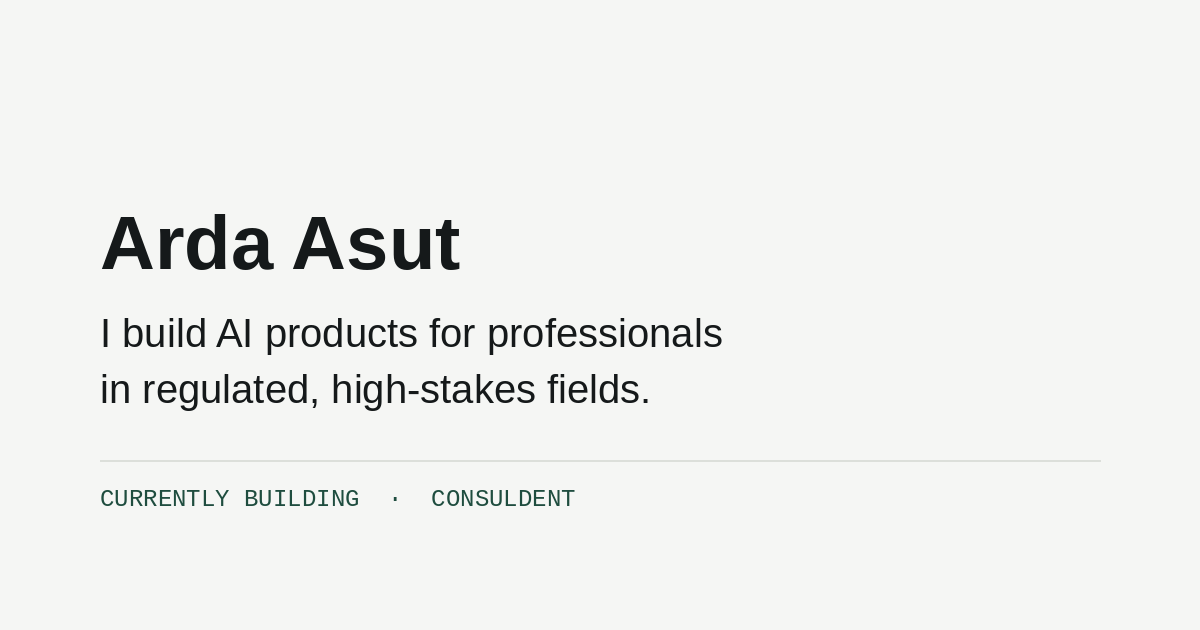
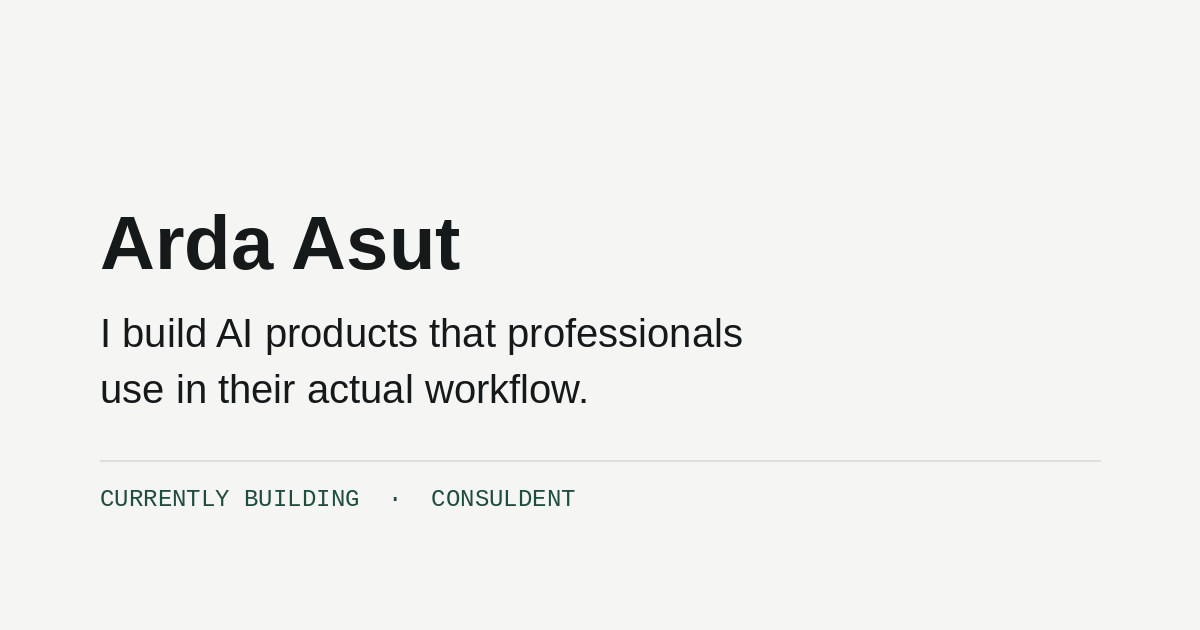
Update homepage copy: real metrics, day job detail, postmortems
- Hero repositioned: products professionals use in their actual
  workflow; context line now points at ConsulDent
- Metrics strip: 50 dentists reached, 3 test cohorts, payments active
- Day job section lists the actual internal software work (OLT/GPON
  automation, 5G sync interfaces, network data analysis, .NET fault
  tracking app)
- Honest postmortems for mulakat.pro and MentAI; homepage archived list
  now shows only products with a postmortem, practice repos stay on
  /projects/
- Title/meta/og.png aligned with the new positioning line

Claude-Session: https://claude.ai/code/session_01F8zVi9XpeL5RVGhwSNBAuU

Changed region(s): [[0.0925, 0.573, 0.555, 0.6635], [0.37, 0.5127, 0.6167, 0.573]]

diff --git a/main/templates/main/home.html b/main/templates/main/home.html
@@ -1,7 +1,7 @@
 {% extends 'main/base.html' %}
 {% load static %}
 
-{% block title %}Arda Asut — AI products for regulated work{% endblock %}
+{% block title %}Arda Asut — AI products for real workflows{% endblock %}
 {% block body_class %}page-home{% endblock %}
 
 {% block extra_css %}
@@ -13,8 +13,8 @@
 
 <header class="intro">
   <h1>Arda Asut</h1>
-  <p class="intro-line">I build AI products for professionals in regulated, high-stakes fields.</p>
-  <p class="intro-sub muted">Alongside a full-time job as a network engineer at Türk Telekom.</p>
+  <p class="intro-line">I build AI products that professionals use in their actual workflow.</p>
+  <p class="intro-sub muted">Currently ConsulDent, a clinical assistant for dentists.</p>
 </header>
 
 {% if current_project %}
@@ -53,15 +53,13 @@
 
 <section class="minor">
   <p class="eyebrow">Day job</p>
-  <p>Network engineer at Türk Telekom. I build internal software alongside the network work.</p>
-  {# TODO(owner): internal software entries — add projects with status="work" in admin. #}
-  {% if work_projects %}
+  <p>Network engineer at Türk Telekom, where I also build the software the network work needs.</p>
   <ul class="plain-list">
-    {% for project in work_projects %}
-    <li>{{ project.title }} — {{ project.description|truncatewords:18 }}</li>
-    {% endfor %}
+    <li><span class="muted">·</span> Automation tooling for OLT / GPON rollouts</li>
+    <li><span class="muted">·</span> 5G synchronization interface definitions</li>
+    <li><span class="muted">·</span> Data analysis for network optimization</li>
+    <li><span class="muted">·</span> A .NET application for tracking and resolving enterprise customer faults</li>
   </ul>
-  {% endif %}
 </section>
 
 {% if archived_projects %}
@@ -69,8 +67,7 @@
   <p class="eyebrow">Also built, then stopped</p>
   <ul class="plain-list">
     {% for project in archived_projects %}
-    {# TODO(owner): one honest postmortem sentence per product, set in admin. #}
-    <li>{{ project.title }} — <span class="muted">{% if project.postmortem %}{{ project.postmortem }}{% else %}{{ project.description|truncatewords:14 }}{% endif %}</span></li>
+    <li>{{ project.title }} — <span class="muted">{{ project.postmortem }}</span></li>
     {% endfor %}
   </ul>
   <p><a class="quiet-link" href="{% url 'projects' %}">All projects &rarr;</a></p>

diff --git a/main/templates/main/base.html b/main/templates/main/base.html
@@ -4,11 +4,11 @@
     {% load static %}
     <meta charset="UTF-8">
     <meta name="viewport" content="width=device-width, initial-scale=1.0">
-    <title>{% block title %}Arda Asut — AI products for regulated work{% endblock %}</title>
-    <meta name="description" content="I build AI systems for regulated, high-stakes work. Currently ConsulDent, a clinical assistant for dentists, live on the App Store.">
+    <title>{% block title %}Arda Asut — AI products for real workflows{% endblock %}</title>
+    <meta name="description" content="I build AI products that professionals use in their actual workflow. Currently ConsulDent, a clinical assistant for dentists, live on the App Store.">
 
     <meta property="og:type"        content="website">
-    <meta property="og:title"       content="Arda Asut — AI products for regulated work">
+    <meta property="og:title"       content="Arda Asut — AI products for real workflows">
     <meta property="og:description" content="Currently building ConsulDent, a clinical AI assistant for dentists. Live on the App Store.">
     <meta property="og:image"       content="https://portfolio-3-nq87.onrender.com{% static 'main/img/og.png' %}">
     <meta property="og:url"         content="https://portfolio-3-nq87.onrender.com/">

diff --git a/main/management/commands/load_initial_data.py b/main/management/commands/load_initial_data.py
@@ -37,8 +37,7 @@ class Command(BaseCommand):
                 'tech_stack': 'Python, RAG, LLM Integration, FastAPI, React',
                 'demo_link': 'https://consuldent.app',
                 'app_store_link': 'https://apps.apple.com/tr/app/consuldent/id6781041991',
-                'metrics': 'live on the App Store, payments active',
-                # TODO(owner): cohort/dentist numbers in metrics
+                'metrics': '50 dentists reached, 3 test cohorts, payments active',
                 'order': 1,
             },
             {
@@ -49,7 +48,7 @@ class Command(BaseCommand):
                 'year': '2025',
                 'tech_stack': 'Python, OpenAI API, LangChain, Django, Whisper',
                 # demo_link intentionally empty: mulakat.pro domain has expired
-                # TODO(owner): one-sentence postmortem
+                'postmortem': "AI mock interviews generated from a job description. Stopped: people tried it once and didn't come back. Without repeat use there was no product to build on.",
                 'order': 2,
             },
             {
@@ -60,7 +59,7 @@ class Command(BaseCommand):
                 'year': '2025',
                 'tech_stack': 'Python, LangChain, Firebase, GCP, Flutter',
                 # demo_link intentionally empty: mentai.app is offline
-                # TODO(owner): one-sentence postmortem
+                'postmortem': "a personalized mentorship app with daily guidance and adaptive tasks. Stopped after MVP testing: the users we spoke to didn't have the need we had designed for.",
                 'github_link': 'https://github.com/ardoktor',
                 'other_link': 'https://www.instagram.com/mentai.app/',
                 'order': 3,

diff --git a/main/migrations/0011_homepage_copy.py b/main/migrations/0011_homepage_copy.py
@@ -1,0 +1,36 @@
+from django.db import migrations
+
+
+CONSULDENT_METRICS = "50 dentists reached, 3 test cohorts, payments active"
+
+MULAKAT_POSTMORTEM = (
+    "AI mock interviews generated from a job description. Stopped: people tried it "
+    "once and didn't come back. Without repeat use there was no product to build on."
+)
+
+MENTAI_POSTMORTEM = (
+    "a personalized mentorship app with daily guidance and adaptive tasks. Stopped "
+    "after MVP testing: the users we spoke to didn't have the need we had designed for."
+)
+
+
+def set_copy(apps, schema_editor):
+    Project = apps.get_model('main', 'Project')
+    Project.objects.filter(slug='consuldent').update(metrics=CONSULDENT_METRICS)
+    Project.objects.filter(slug='mulakat-pro').update(postmortem=MULAKAT_POSTMORTEM)
+    Project.objects.filter(slug='mentai').update(postmortem=MENTAI_POSTMORTEM)
+
+
+def noop(apps, schema_editor):
+    pass
+
+
+class Migration(migrations.Migration):
+
+    dependencies = [
+        ('main', '0010_consuldent_links'),
+    ]
+
+    operations = [
+        migrations.RunPython(set_copy, noop),
+    ]

diff --git a/main/views.py b/main/views.py
@@ -6,8 +6,9 @@ from django.views.generic import ListView, DetailView
 def home(request):
     return render(request, 'main/home.html', {
         'current_project': Project.objects.filter(status='active').first(),
-        'work_projects': Project.objects.filter(status='work'),
-        'archived_projects': Project.objects.filter(status='archived'),
+        # Homepage lists only archived products with a postmortem written;
+        # the rest stay on /projects/.
+        'archived_projects': Project.objects.filter(status='archived').exclude(postmortem=''),
         'recent_posts': BlogPost.objects.filter(is_published=True)[:3],
     })
 
